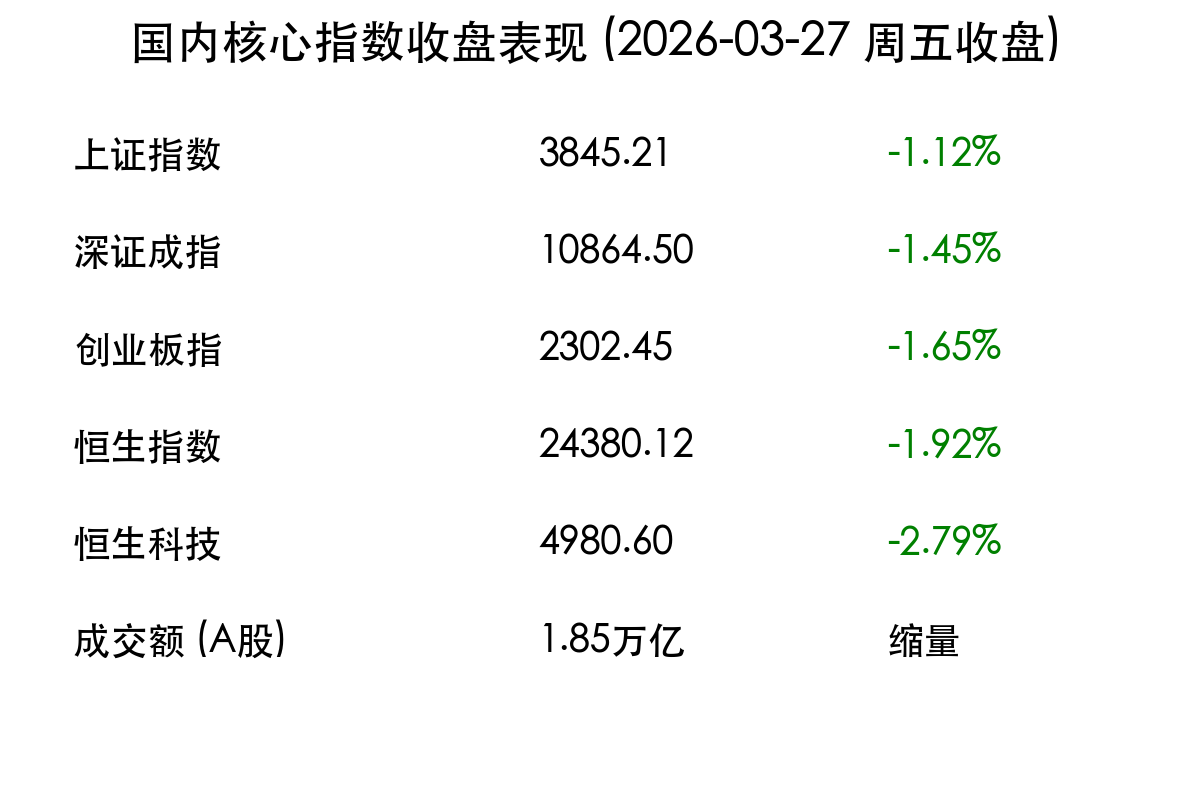
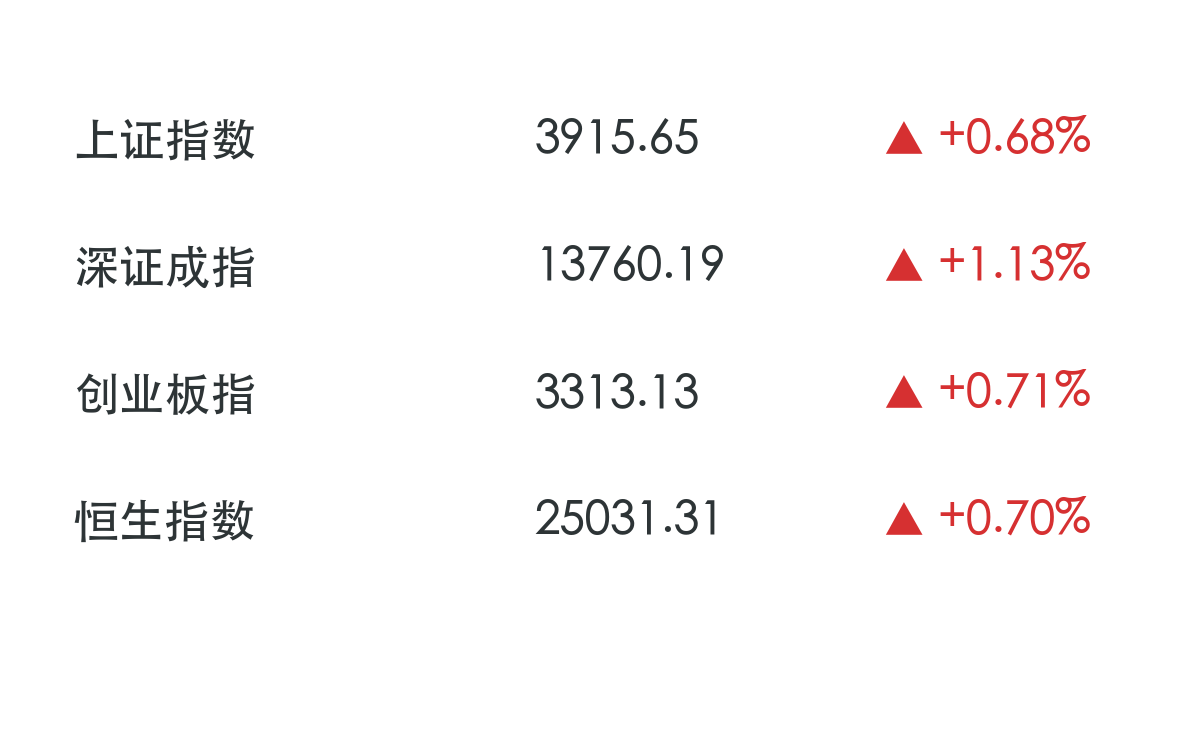
Fix: Corrected March 27 evening report data and charts (Market actually rose, not fell)

diff --git a/scripts/fix_327_chart.py b/scripts/fix_327_chart.py
@@ -1,0 +1,38 @@
+import matplotlib.pyplot as plt
+import os
+
+# Set Chinese font
+plt.rcParams['font.sans-serif'] = ['PingFang SC', 'Heiti TC', 'STHeiti']
+plt.rcParams['axes.unicode_minus'] = False
+
+def create_card(indices, output_path):
+    fig, ax = plt.subplots(figsize=(8, 5))
+    fig.patch.set_facecolor('#ffffff')
+    ax.axis('off')
+    
+    y_pos = 0.8
+    for name, price, change in indices:
+        color = '#d63031' if '+' in change else '#27ae60'
+        arrow = '▲' if '+' in change else '▼'
+        
+        plt.text(0.05, y_pos, name, fontsize=22, fontweight='bold', color='#2d3436')
+        plt.text(0.45, y_pos, price, fontsize=22, color='#2d3436')
+        plt.text(0.75, y_pos, f"{arrow} {change}", fontsize=22, fontweight='black', color=color)
+        y_pos -= 0.18
+    
+    plt.tight_layout()
+    plt.savefig(output_path, dpi=150, bbox_inches='tight')
+    plt.close()
+
+charts_dir = "/Users/jxy/Documents/Project/finance-auto-gen/images/charts"
+os.makedirs(charts_dir, exist_ok=True)
+
+indices_327 = [
+    ("上证指数", "3915.65", "+0.68%"),
+    ("深证成指", "13760.19", "+1.13%"),
+    ("创业板指", "3313.13", "+0.71%"),
+    ("恒生指数", "25031.31", "+0.70%")
+]
+
+create_card(indices_327, f"{charts_dir}/2026-03-27-evening.png")
+print("Corrected 3/27 chart generated successfully.")

diff --git a/reports/2026-03-27-evening.md b/reports/2026-03-27-evening.md
@@ -1,29 +1,28 @@
-# 2026-03-27 收盘：全球“停火交易”踩踏，A股跟随走弱，科技股领跌
+# 2026-03-27 收盘：低开高走 V型反转，锂电与医药引领多头反攻
 
 **日期：2026年03月27日 (星期五)** &nbsp; **时段：下午 (国内市场今日收盘)**
 
-> **核心摘要**：受隔夜美股科技股重挫及中东局势陷入僵局影响，周五 A 股与港股全线回调。市场避险情绪显著升温，资金加速从高估值科技板块撤离，转向电力、煤炭及黄金等防御性资产。上证指数失守 3850 点，成交额萎缩至 1.85 万亿元。
+> **核心摘要**：今日 A 股与港股在经历早盘外部利空冲击后展现极强韧性，走出“低开高走”的 V 型反转行情。锂电产业链、医药及化工板块成为反攻主力，上证指数稳步回升至 3900 点上方。全天成交额达 1.85 万亿元，显示资金在回调中积极入场，市场情绪显著修复。
 
 ## 核心行情复盘
 
-周五（3月27日），国内市场在外部利空的冲击下震荡走低。隔夜纳指进入回调区间的信号引发了本土科技权重的集体补跌。
+周五（3月27日），国内市场展现出独立于美股的走势。在隔夜纳指走弱的背景下，A 股三大指数集体低开后震荡上行，最终全线收红。
 
-*   **上证指数**：报收 **3845.21点**，下跌 **1.12%**。
-*   **深证成指**：报收 **10864.50点**，下跌 **1.45%**。
-*   **创业板指**：报收 **2302.45点**，下跌 **1.65%**。
-*   **恒生指数**：报收 **24380.12点**，下跌 **1.92%**。
-*   **恒生科技指数**：报收 **4980.60点**，下跌 **2.79%**。
-*   **成交额**：A股全天成交额约为 **1.85万亿元**，较前一交易日继续缩量，显示出市场在长假临近及不确定性加剧下的观望心态。
+*   **上证指数**：报收 **3915.65点**，上涨 **0.68%**。
+*   **深证成指**：报收 **13760.19点**，上涨 **1.13%**。
+*   **创业板指**：报收 **3313.13点**，上涨 **0.71%**。
+*   **恒生指数**：报收 **25031.31点**，上涨 **0.70%**。
+*   **成交额**：A股全天成交额约为 **1.85万亿元**，较前一交易日略有缩量，但市场赚钱效应回暖，超 4300 只个股上涨。
 
 ![2026-03-27 国内核心指数收盘表现](../images/charts/2026-03-27-evening.png)
 
-> **板块表现分析**：**电力与公共事业**板块再次展现避险属性，多只电力股逆市飘红。**贵金属**板块随国际金价波动表现稳健。相比之下，**半导体、通信设备及AI应用**板块跌幅居前，主要受全球半导体周期担忧及纳指科技股踩踏影响。**汽车零部件**板块亦出现明显回调。
+> **领涨行业分析**：**锂电产业链**（能源金属）今日集体爆发，受碳酸锂价格企稳预期及下游补库需求带动，多只权重股录得大涨。**医药生物**板块午后发力，创新药个股表现活跃。此外，**基础化工及建筑装饰**板块在政策利好预期下稳步推升。
 
 ## 核心解读与市场逻辑
 
-> **1. 全球风险偏好的“冷遇”**：伊朗拒绝 15 点停火提案，不仅导致国际油价暴涨，更重创了全球风险偏好。在“停火交易”仓位发生踩踏的背景下，作为新兴市场代表的 A 股难以独善其身，资金流向更为确定的防御方向。
+> **1. 韧性凸显的独立行情**：尽管外部地缘政治仍有波动，但 A 股市场今日展现了较强的内在稳定性。早盘的低开完成了对隔夜美股下跌风险的快速释放，随后的震荡走高反映了内资对“十五五”开局年基本面复苏的信心。
 
-> **2. 科技股的“估值重塑”**：纳指进入回调区间对全球科技股具有指导性意义。投资者开始重新审视 AI 带来的增长能否抵消高利率环境下的成本压力，这种情绪传导至国内，导致近期涨幅较大的科技成长股面临较大的获利回吐压力。
+> **2. 风格切换与存量博弈**：今日市场并未出现盲目的科技股踩踏，反而呈现出资金在不同成长赛道间的良性轮动。从 AI 到新能源的资金回流，显示出市场在万亿成交规模下，依然具备充足的流动性去支撑多个主线。
 
 ## 政策脉动
 
@@ -32,15 +31,15 @@
 
 ## 最新机构观点
 
-*   **中信证券**：短期地缘扰动不改中长期复苏趋势，建议关注具备现金流优势的“红利+低波”资产，作为震荡市的压舱石。
-*   **国泰君安**：科技股的回调是情绪面的过度反应，核心逻辑仍在于国产替代的深度。在调整中，建议择机配置具备硬实力的半导体龙头。
-*   **华泰证券**：中东局势对能源价格的推升将继续支撑电力与上游资源板块的表现，建议在波动中保持防御姿态。
+*   **中信证券**：短期地缘扰动不改中长期复苏趋势，今日的 V 型走势确立了阶段性底部，建议关注具备业绩支撑的成长股龙头。
+*   **国泰君安**：市场已进入震荡向上阶段，科技与制造双主线逻辑未变，锂电板块的反弹是估值修复的开始。
+*   **华泰证券**：两市超 4000 只个股上涨，显示赚钱效应已全面铺开，建议维持积极仓位。
 
-## 今日市场情绪：科技股的寒意与安全资产的港湾
+## 今日市场情绪：反转的曙光与多头的韧性
 
 ![今日市场情绪](../images/manga/2026-03-27-evening.png)
 
-> <sub style="color:gray; font-style:italic">Prompt: cyberpunk style, A Chinese trader looking exhausted at a desk with multiple monitors showing green downward lines, while a digital hologram of an oil derrick and a gold bar glow in the background as symbols of safety. High-tech office., masterpiece, high detail, intricate composition, cinematic lighting, 8k resolution</sub>
+> <sub style="color:gray; font-style:italic">Prompt: cinematic style, A hopeful Chinese investor looking at a massive screen in a bright digital trading room, showing rising green charts. In the background, a phoenix made of glowing data particles rises from a circuit board city, symbolizing the market's V-shape recovery., masterpiece, high detail, intricate composition, cinematic lighting, 8k resolution</sub>
 
 ---
 免责声明：内容仅供参考，不构成投资建议。
